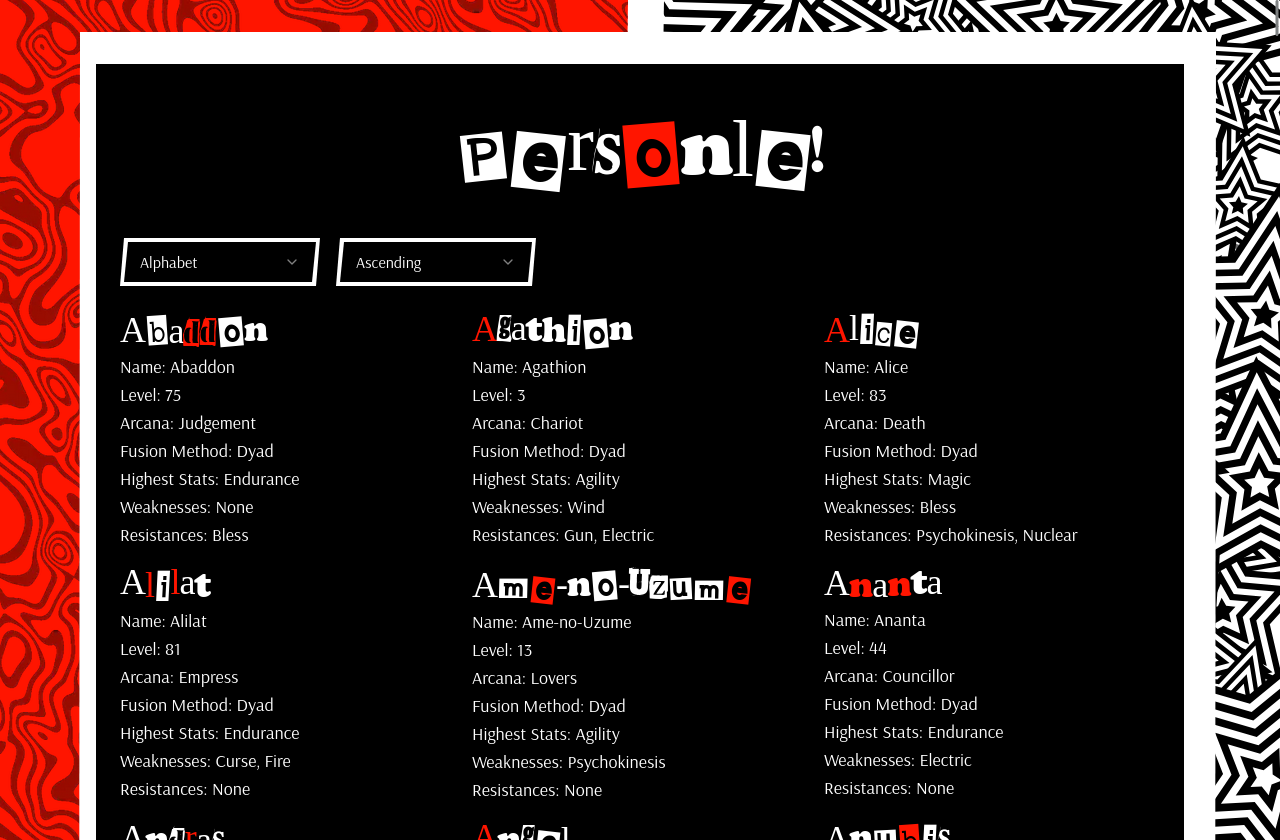
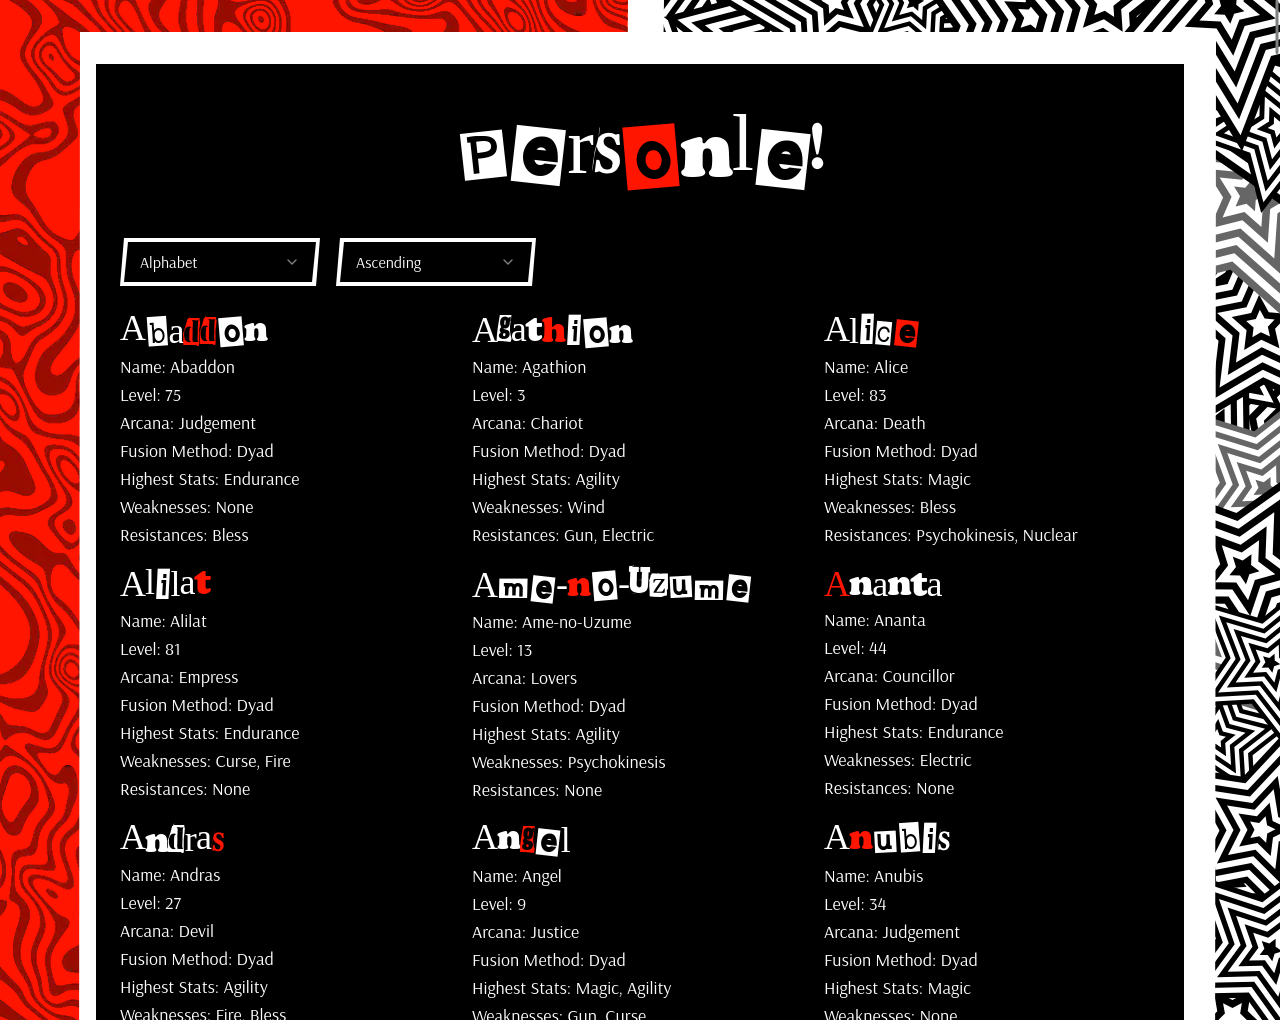
got carousel working with more personle images

Changed region(s): [[0.0938, 0.1238, 0.6562, 1.0], [0.0, 0.0, 1.0, 1.0], [0.625, 0.3095, 0.8438, 1.0]]

diff --git a/src/components/projects/ProjectShowcase.tsx b/src/components/projects/ProjectShowcase.tsx
@@ -1,7 +1,10 @@
+"use client";
+
 import { Project } from "@/lib/projects/model";
 import { Button } from "@/components/ui/Button";
 import { LuGithub, LuGlobe } from "react-icons/lu";
 import { TechnologyBadge } from "./TechnologyBadge";
+import ClassNames from "embla-carousel-class-names";
 import { Carousel, CarouselContent, CarouselItem, CarouselNext, CarouselPrevious } from "@/components/ui/Carousel";
 
 interface ProjectShowcaseProps {
@@ -13,7 +16,7 @@ export function ProjectShowcase({ project }: ProjectShowcaseProps) {
 
 	return (
 		<div className="flex flex-col gap-4 md:flex-row-reverse md:items-center md:gap-8">
-			<div className="md:w-0 md:grow">
+			<div className="md:grow md:basis-0">
 				<h3 className="font-clash-display text-3xl font-semibold">{name}</h3>
 				<p className="text-base text-muted-foreground">{summary}</p>
 
@@ -50,16 +53,25 @@ export function ProjectShowcase({ project }: ProjectShowcaseProps) {
 				</div>
 			</div>
 
-			<Carousel className="md:w-0 md:grow" opts={{ loop: true }}>
+			<Carousel
+				className="md:grow md:basis-0"
+				opts={{ loop: true }}
+				plugins={[
+					ClassNames({
+						inView: "opacity-30",
+						snapped: "!opacity-100"
+					})
+				]}
+			>
 				<CarouselContent className="mb-2">
 					{screenshots.map((screenshot) => (
-						<CarouselItem key={`project-${name}-screenshot-${screenshot.src}`}>
+						<CarouselItem key={`project-${name}-screenshot-${screenshot.src}`} className="basis-3/4 opacity-30 transition-opacity duration-300">
 							<img loading="eager" src={screenshot.src} alt={screenshot.alt} width={screenshot.width} height={screenshot.height} />
 						</CarouselItem>
 					))}
 				</CarouselContent>
 
-				<div className="flex flex-row items-center justify-center">
+				<div className="flex flex-row items-center justify-center gap-2">
 					<CarouselPrevious />
 					<CarouselNext />
 				</div>

diff --git a/src/components/timeline/TimelineEntry.tsx b/src/components/timeline/TimelineEntry.tsx
@@ -12,7 +12,7 @@ export function TimelineEntry({ className, entry }: TimelineEntryProps) {
 	return (
 		<div className={cn("flex flex-col gap-4 sm:flex-row sm:items-center sm:justify-between sm:gap-8", className)}>
 			{/* LHS: Date and Location */}
-			<div className="sm:w-0 sm:grow">
+			<div className="sm:grow sm:basis-0">
 				<p className="text-2xl font-medium">
 					{formatTimelineEntryDate(dateRange[0])} - {formatTimelineEntryDate(dateRange[1])} ({formatDateRangeDifference(dateRange[0], dateRange[1])})
 				</p>
@@ -20,7 +20,7 @@ export function TimelineEntry({ className, entry }: TimelineEntryProps) {
 			</div>
 
 			{/* RHS: Header, Subheader, and Bullets/Content */}
-			<div className="sm:w-0 sm:grow">
+			<div className="sm:grow sm:basis-0">
 				<h3 className="font-clash-display text-3xl font-medium">{header}</h3>
 				<p className="mb-2 text-2xl font-medium text-muted-foreground">{subheader}</p>
 

diff --git a/src/lib/projects/data.tsx b/src/lib/projects/data.tsx
@@ -24,7 +24,7 @@ export const projects: Project[] = [
 				src: "/personle-home.png",
 				alt: "Personle! home page",
 				width: 1280,
-				height: 840
+				height: 1020
 			},
 			{
 				src: "/personle-daily.png",
@@ -36,7 +36,7 @@ export const projects: Project[] = [
 				src: "/personle-compendium.png",
 				alt: "Personle! compendium page",
 				width: 1280,
-				height: 840
+				height: 1020
 			}
 		],
 		type: "bullets",

diff --git a/src/components/ui/Carousel.tsx b/src/components/ui/Carousel.tsx
@@ -178,4 +178,4 @@ const CarouselNext = React.forwardRef<HTMLButtonElement, React.ComponentProps<ty
 });
 CarouselNext.displayName = "CarouselNext";
 
-export { type CarouselApi, Carousel, CarouselContent, CarouselItem, CarouselPrevious, CarouselNext };
+export { type CarouselApi, type CarouselPlugin, Carousel, CarouselContent, CarouselItem, CarouselPrevious, CarouselNext };
